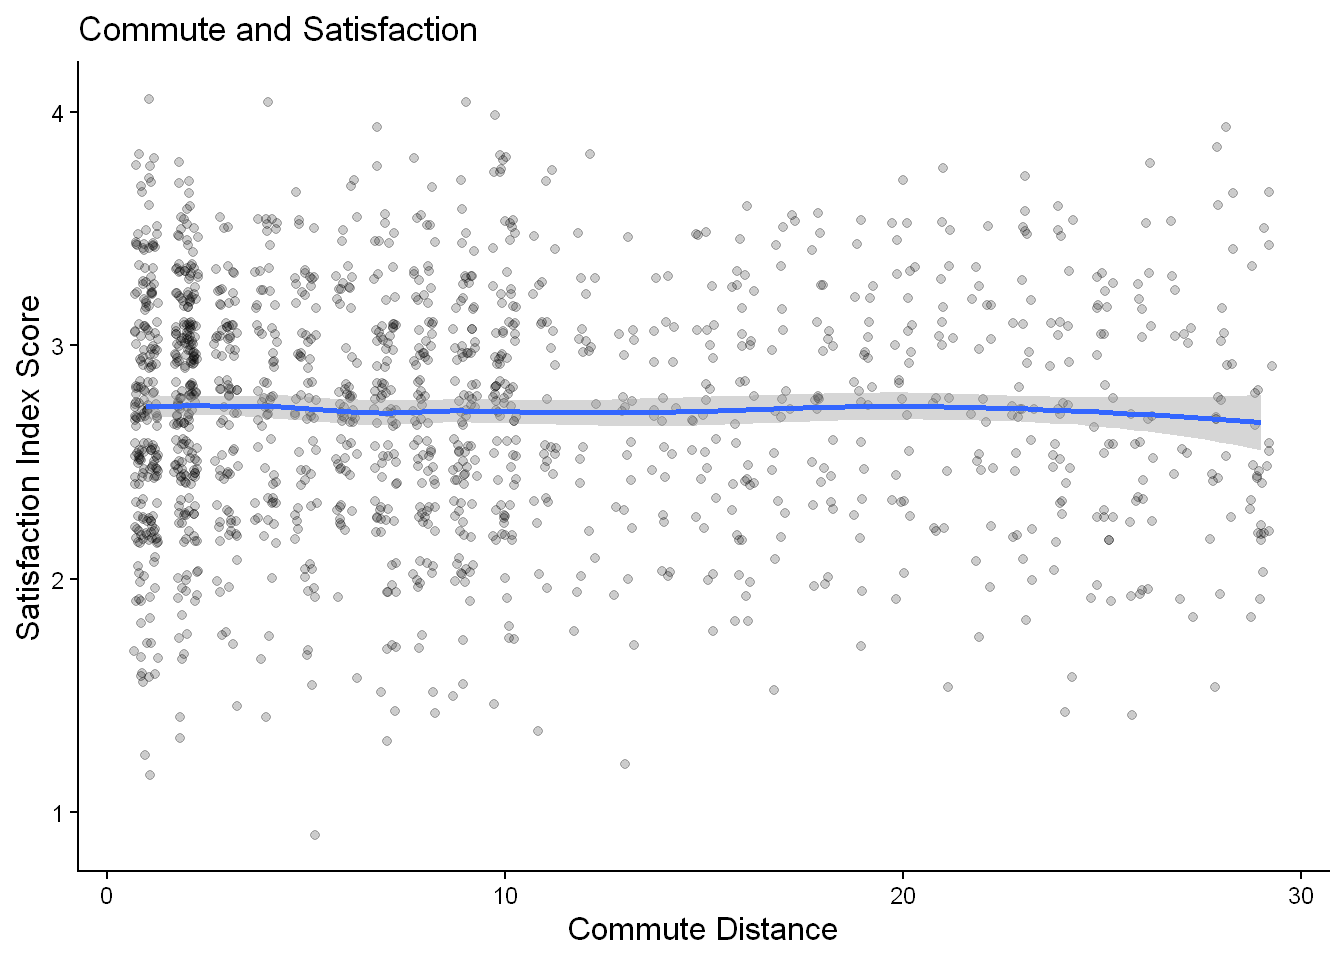
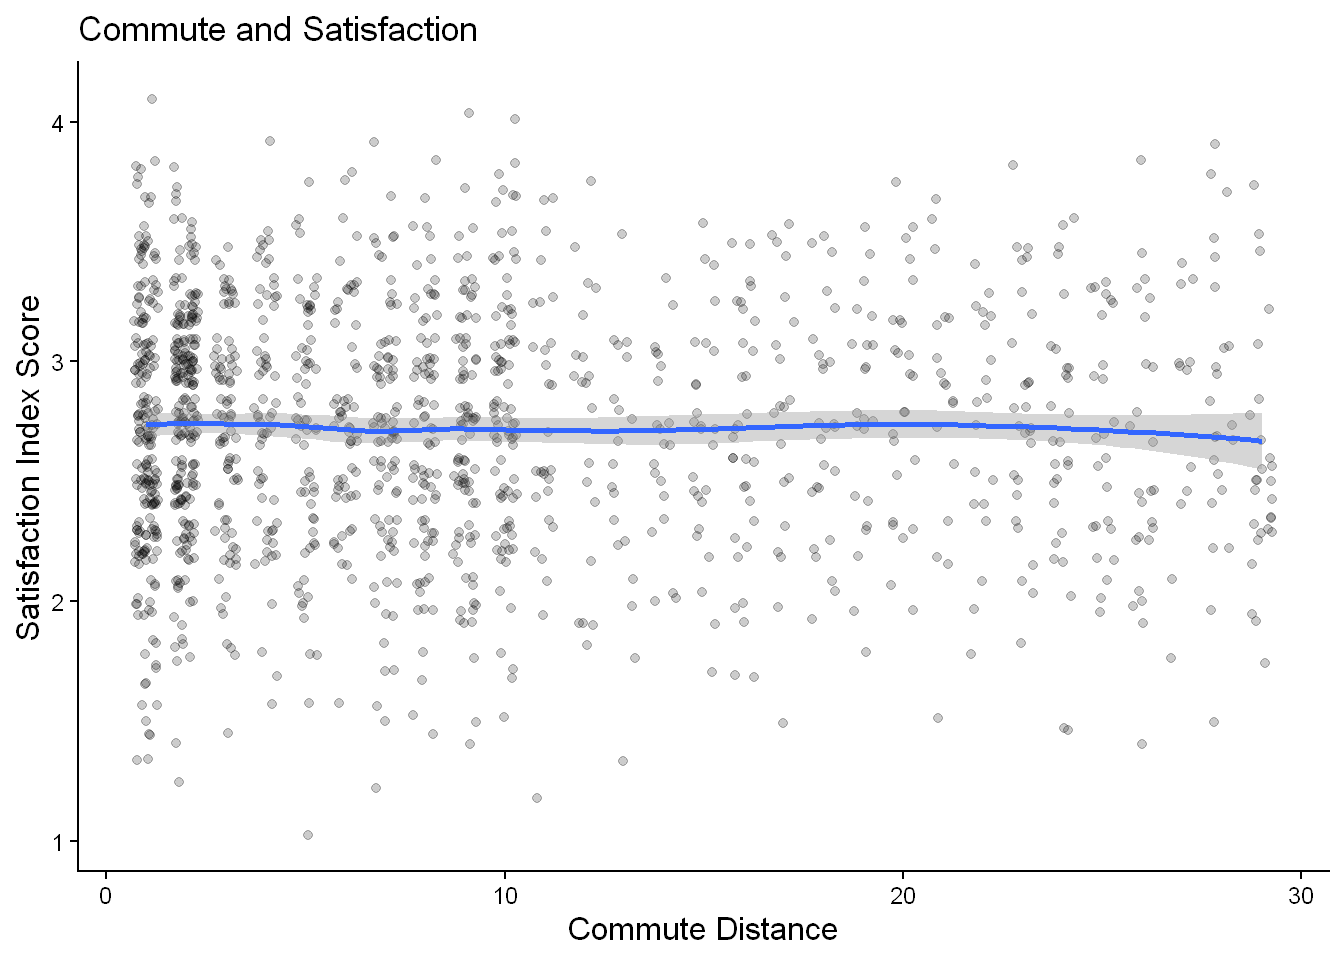
Added intro and fixed some typos

diff --git a/Employee Attrition Exploration & Analyses.html b/Employee Attrition Exploration & Analyses.html
@@ -88,7 +88,6 @@ pre > code.sourceCode > span > a:first-child::before { text-decoration: underlin
   <li><a href="#setup" id="toc-setup" class="nav-link active" data-scroll-target="#setup">Setup</a>
   <ul class="collapse">
   <li><a href="#importing-data" id="toc-importing-data" class="nav-link" data-scroll-target="#importing-data">Importing Data</a></li>
-  <li><a href="#initial-inspection" id="toc-initial-inspection" class="nav-link" data-scroll-target="#initial-inspection">Initial Inspection</a></li>
   </ul></li>
   <li><a href="#cleaning" id="toc-cleaning" class="nav-link" data-scroll-target="#cleaning">Cleaning</a></li>
   <li><a href="#analyses" id="toc-analyses" class="nav-link" data-scroll-target="#analyses">Analyses</a>
@@ -144,9 +143,6 @@ pre > code.sourceCode > span > a:first-child::before { text-decoration: underlin
 <span id="cb2-2"><a href="#cb2-2" aria-hidden="true" tabindex="-1"></a>hr_data <span class="ot">&lt;-</span> <span class="fu">read_csv</span>(<span class="st">"data/WA_Fn-UseC_-HR-Employee-Attrition.csv"</span>)</span></code></pre></div><button title="Copy to Clipboard" class="code-copy-button"><i class="bi"></i></button></div>
 </div>
 </section>
-<section id="initial-inspection" class="level3">
-<h3 class="anchored" data-anchor-id="initial-inspection">Initial Inspection</h3>
-</section>
 </section>
 <section id="cleaning" class="level1">
 <h1>Cleaning</h1>
@@ -154,7 +150,7 @@ pre > code.sourceCode > span > a:first-child::before { text-decoration: underlin
 <div class="code-copy-outer-scaffold"><div class="sourceCode cell-code" id="cb3"><pre class="sourceCode r code-with-copy"><code class="sourceCode r"><span id="cb3-1"><a href="#cb3-1" aria-hidden="true" tabindex="-1"></a><span class="co"># Standardized column names</span></span>
 <span id="cb3-2"><a href="#cb3-2" aria-hidden="true" tabindex="-1"></a>hr_data <span class="ot">&lt;-</span> janitor<span class="sc">::</span><span class="fu">clean_names</span>(hr_data) <span class="sc">%&gt;%</span> </span>
 <span id="cb3-3"><a href="#cb3-3" aria-hidden="true" tabindex="-1"></a></span>
-<span id="cb3-4"><a href="#cb3-4" aria-hidden="true" tabindex="-1"></a><span class="co"># Removed standardized columns and irrelevant variables to following analyses</span></span>
+<span id="cb3-4"><a href="#cb3-4" aria-hidden="true" tabindex="-1"></a><span class="co"># Removed irrelevant variables </span></span>
 <span id="cb3-5"><a href="#cb3-5" aria-hidden="true" tabindex="-1"></a>  <span class="fu">select</span>(<span class="sc">-</span><span class="fu">any_of</span>(<span class="fu">c</span>(<span class="st">"employee_count"</span>, <span class="st">"standard_hours"</span>, <span class="st">"over18"</span>)))</span>
 <span id="cb3-6"><a href="#cb3-6" aria-hidden="true" tabindex="-1"></a></span>
 <span id="cb3-7"><a href="#cb3-7" aria-hidden="true" tabindex="-1"></a><span class="co"># Created first data branch, for feature analysis</span></span>
@@ -194,14 +190,13 @@ pre > code.sourceCode > span > a:first-child::before { text-decoration: underlin
 <span id="cb3-41"><a href="#cb3-41" aria-hidden="true" tabindex="-1"></a>                 <span class="st">"Bachelor"</span>, <span class="st">"Master"</span>, <span class="st">"Doctor"</span>),</span>
 <span id="cb3-42"><a href="#cb3-42" aria-hidden="true" tabindex="-1"></a>      <span class="at">ordered =</span> <span class="cn">TRUE</span></span>
 <span id="cb3-43"><a href="#cb3-43" aria-hidden="true" tabindex="-1"></a>    ),</span>
-<span id="cb3-44"><a href="#cb3-44" aria-hidden="true" tabindex="-1"></a>    </span>
-<span id="cb3-45"><a href="#cb3-45" aria-hidden="true" tabindex="-1"></a>    <span class="co"># Nominal categorical variables</span></span>
-<span id="cb3-46"><a href="#cb3-46" aria-hidden="true" tabindex="-1"></a>    <span class="fu">across</span>(</span>
-<span id="cb3-47"><a href="#cb3-47" aria-hidden="true" tabindex="-1"></a>      <span class="fu">c</span>(attrition, business_travel, department, education_field,</span>
-<span id="cb3-48"><a href="#cb3-48" aria-hidden="true" tabindex="-1"></a>        gender, job_role, marital_status, over_time),</span>
-<span id="cb3-49"><a href="#cb3-49" aria-hidden="true" tabindex="-1"></a>      as.factor</span>
-<span id="cb3-50"><a href="#cb3-50" aria-hidden="true" tabindex="-1"></a>    )</span>
-<span id="cb3-51"><a href="#cb3-51" aria-hidden="true" tabindex="-1"></a>  )</span></code></pre></div><button title="Copy to Clipboard" class="code-copy-button"><i class="bi"></i></button></div>
+<span id="cb3-44"><a href="#cb3-44" aria-hidden="true" tabindex="-1"></a>    <span class="co"># Nominal categorical variables</span></span>
+<span id="cb3-45"><a href="#cb3-45" aria-hidden="true" tabindex="-1"></a>    <span class="fu">across</span>(</span>
+<span id="cb3-46"><a href="#cb3-46" aria-hidden="true" tabindex="-1"></a>      <span class="fu">c</span>(attrition, business_travel, department, education_field,</span>
+<span id="cb3-47"><a href="#cb3-47" aria-hidden="true" tabindex="-1"></a>        gender, job_role, marital_status, over_time),</span>
+<span id="cb3-48"><a href="#cb3-48" aria-hidden="true" tabindex="-1"></a>      as.factor</span>
+<span id="cb3-49"><a href="#cb3-49" aria-hidden="true" tabindex="-1"></a>    )</span>
+<span id="cb3-50"><a href="#cb3-50" aria-hidden="true" tabindex="-1"></a>  )</span></code></pre></div><button title="Copy to Clipboard" class="code-copy-button"><i class="bi"></i></button></div>
 </div>
 </section>
 <section id="analyses" class="level1">
@@ -250,6 +245,7 @@ pre > code.sourceCode > span > a:first-child::before { text-decoration: underlin
 </div>
 </div>
 </div>
+<p>The heatmap shows that attrition rates are lowest at the extreme highs of job involvement and satisfaction. In fact, the rate for employees with both very high job involvement and satisfaction is 2.38%. As shown in the graphic, as these engagement levels decrease, attrition rates tend to increase.</p>
 </section>
 <section id="commute-and-satisfaction" class="level2">
 <h2 class="anchored" data-anchor-id="commute-and-satisfaction">Commute and Satisfaction</h2>
@@ -258,7 +254,7 @@ pre > code.sourceCode > span > a:first-child::before { text-decoration: underlin
 <p>Created new feature, satisfaction_index… (Important to discuss because I use it later as well)</p>
 <p>*Note that commute distance does not have a unit because the data set is not specific</p>
 <div class="cell">
-<div class="code-copy-outer-scaffold"><div class="sourceCode cell-code" id="cb6"><pre class="sourceCode r code-with-copy"><code class="sourceCode r"><span id="cb6-1"><a href="#cb6-1" aria-hidden="true" tabindex="-1"></a><span class="co"># Engineered new feature, satisfaction_index that takes the average of the satisafction variables</span></span>
+<div class="code-copy-outer-scaffold"><div class="sourceCode cell-code" id="cb6"><pre class="sourceCode r code-with-copy"><code class="sourceCode r"><span id="cb6-1"><a href="#cb6-1" aria-hidden="true" tabindex="-1"></a><span class="co"># Engineered new feature, satisfaction_index that takes the average of the satisfaction variables</span></span>
 <span id="cb6-2"><a href="#cb6-2" aria-hidden="true" tabindex="-1"></a>hr_features <span class="ot">&lt;-</span> hr_features <span class="sc">%&gt;%</span> </span>
 <span id="cb6-3"><a href="#cb6-3" aria-hidden="true" tabindex="-1"></a>  <span class="fu">mutate</span>(</span>
 <span id="cb6-4"><a href="#cb6-4" aria-hidden="true" tabindex="-1"></a>    <span class="at">satisfaction_index =</span> (</span>
@@ -370,7 +366,7 @@ pre > code.sourceCode > span > a:first-child::before { text-decoration: underlin
 <section id="graph-of-breakdown-by-years-since-last-promotion" class="level4">
 <h4 class="anchored" data-anchor-id="graph-of-breakdown-by-years-since-last-promotion">Graph of Breakdown by Years Since Last Promotion</h4>
 <div class="cell">
-<div class="code-copy-outer-scaffold"><div class="sourceCode cell-code" id="cb10"><pre class="sourceCode r code-with-copy"><code class="sourceCode r"><span id="cb10-1"><a href="#cb10-1" aria-hidden="true" tabindex="-1"></a><span class="co"># Created graph to show the count of employees who attritted based on years since their last promotion</span></span>
+<div class="code-copy-outer-scaffold"><div class="sourceCode cell-code" id="cb10"><pre class="sourceCode r code-with-copy"><code class="sourceCode r"><span id="cb10-1"><a href="#cb10-1" aria-hidden="true" tabindex="-1"></a><span class="co"># Created graph showing employees who attritted based on years since their last promotion</span></span>
 <span id="cb10-2"><a href="#cb10-2" aria-hidden="true" tabindex="-1"></a>promo_graph_count <span class="ot">&lt;-</span> education_data <span class="sc">%&gt;%</span> </span>
 <span id="cb10-3"><a href="#cb10-3" aria-hidden="true" tabindex="-1"></a>  <span class="fu">mutate</span>(<span class="at">years_bucket =</span> <span class="fu">cut</span>(years_since_last_promotion,</span>
 <span id="cb10-4"><a href="#cb10-4" aria-hidden="true" tabindex="-1"></a>                            <span class="at">breaks =</span> <span class="fu">c</span>(<span class="dv">0</span>, <span class="dv">3</span>, <span class="dv">6</span>, <span class="dv">9</span>, <span class="dv">12</span>, <span class="dv">15</span>),</span>
@@ -390,7 +386,7 @@ pre > code.sourceCode > span > a:first-child::before { text-decoration: underlin
 <div class="cell-output-display">
 <div>
 <figure class="figure">
-<p><img src="Employee-Attrition-Exploration---Analyses_files/figure-html/Graphing-1.png" class="img-fluid figure-img" width="672"></p>
+<p><img src="Employee-Attrition-Exploration---Analyses_files/figure-html/Education%20x%20Promotion%20Graphing-1.png" class="img-fluid figure-img" width="672"></p>
 </figure>
 </div>
 </div>
@@ -536,7 +532,7 @@ pre > code.sourceCode > span > a:first-child::before { text-decoration: underlin
 <div class="cell-output-display">
 <div>
 <figure class="figure">
-<p><img src="Employee-Attrition-Exploration---Analyses_files/figure-html/unnamed-chunk-4-1.png" class="img-fluid figure-img" width="672"></p>
+<p><img src="Employee-Attrition-Exploration---Analyses_files/figure-html/Education%20proportion%20graph-1.png" class="img-fluid figure-img" width="672"></p>
 </figure>
 </div>
 </div>
@@ -741,19 +737,22 @@ pre > code.sourceCode > span > a:first-child::before { text-decoration: underlin
 <span id="cb16-5"><a href="#cb16-5" aria-hidden="true" tabindex="-1"></a>             <span class="at">labeller =</span> <span class="fu">labeller</span>(</span>
 <span id="cb16-6"><a href="#cb16-6" aria-hidden="true" tabindex="-1"></a>               <span class="at">over_time =</span> <span class="fu">c</span>(<span class="st">"No"</span> <span class="ot">=</span> <span class="st">"No Overtime"</span>, </span>
 <span id="cb16-7"><a href="#cb16-7" aria-hidden="true" tabindex="-1"></a>                             <span class="st">"Yes"</span> <span class="ot">=</span> <span class="st">"Overtime"</span>)</span>
-<span id="cb16-8"><a href="#cb16-8" aria-hidden="true" tabindex="-1"></a>             )</span>
-<span id="cb16-9"><a href="#cb16-9" aria-hidden="true" tabindex="-1"></a>  ) <span class="sc">+</span> </span>
-<span id="cb16-10"><a href="#cb16-10" aria-hidden="true" tabindex="-1"></a>  <span class="fu">labs</span>(<span class="at">title =</span> <span class="st">"Attrition Patterns Across Career Stages and Overtime"</span>,</span>
-<span id="cb16-11"><a href="#cb16-11" aria-hidden="true" tabindex="-1"></a>       <span class="at">x =</span> <span class="st">"Career Stage"</span>,</span>
-<span id="cb16-12"><a href="#cb16-12" aria-hidden="true" tabindex="-1"></a>       <span class="at">y =</span> <span class="st">"Proportion"</span>) <span class="sc">+</span></span>
-<span id="cb16-13"><a href="#cb16-13" aria-hidden="true" tabindex="-1"></a>  graph_theme <span class="sc">+</span></span>
-<span id="cb16-14"><a href="#cb16-14" aria-hidden="true" tabindex="-1"></a>  <span class="fu">scale_fill_manual</span>(<span class="at">values =</span> <span class="fu">c</span>(<span class="st">"No"</span> <span class="ot">=</span> <span class="st">"grey80"</span>, <span class="st">"Yes"</span> <span class="ot">=</span> <span class="st">"#D55E00"</span>))</span>
-<span id="cb16-15"><a href="#cb16-15" aria-hidden="true" tabindex="-1"></a></span>
-<span id="cb16-16"><a href="#cb16-16" aria-hidden="true" tabindex="-1"></a>overtime_graph</span></code></pre></div><button title="Copy to Clipboard" class="code-copy-button"><i class="bi"></i></button></div>
+<span id="cb16-8"><a href="#cb16-8" aria-hidden="true" tabindex="-1"></a>               )</span>
+<span id="cb16-9"><a href="#cb16-9" aria-hidden="true" tabindex="-1"></a>             ) <span class="sc">+</span> </span>
+<span id="cb16-10"><a href="#cb16-10" aria-hidden="true" tabindex="-1"></a>  <span class="fu">labs</span>(</span>
+<span id="cb16-11"><a href="#cb16-11" aria-hidden="true" tabindex="-1"></a>    <span class="at">title =</span> <span class="st">"Attrition Patterns Across Career Stages and Overtime"</span>,</span>
+<span id="cb16-12"><a href="#cb16-12" aria-hidden="true" tabindex="-1"></a>    <span class="at">x =</span> <span class="st">"Career Stage"</span>,</span>
+<span id="cb16-13"><a href="#cb16-13" aria-hidden="true" tabindex="-1"></a>    <span class="at">y =</span> <span class="st">"Proportion"</span>,</span>
+<span id="cb16-14"><a href="#cb16-14" aria-hidden="true" tabindex="-1"></a>    <span class="at">fill =</span> <span class="st">"Attrition"</span></span>
+<span id="cb16-15"><a href="#cb16-15" aria-hidden="true" tabindex="-1"></a>    ) <span class="sc">+</span></span>
+<span id="cb16-16"><a href="#cb16-16" aria-hidden="true" tabindex="-1"></a>  graph_theme <span class="sc">+</span></span>
+<span id="cb16-17"><a href="#cb16-17" aria-hidden="true" tabindex="-1"></a>  <span class="fu">scale_fill_manual</span>(<span class="at">values =</span> <span class="fu">c</span>(<span class="st">"No"</span> <span class="ot">=</span> <span class="st">"grey80"</span>, <span class="st">"Yes"</span> <span class="ot">=</span> <span class="st">"#D55E00"</span>))</span>
+<span id="cb16-18"><a href="#cb16-18" aria-hidden="true" tabindex="-1"></a></span>
+<span id="cb16-19"><a href="#cb16-19" aria-hidden="true" tabindex="-1"></a>overtime_graph</span></code></pre></div><button title="Copy to Clipboard" class="code-copy-button"><i class="bi"></i></button></div>
 <div class="cell-output-display">
 <div>
 <figure class="figure">
-<p><img src="Employee-Attrition-Exploration---Analyses_files/figure-html/Analyses-1.png" class="img-fluid figure-img" width="672"></p>
+<p><img src="Employee-Attrition-Exploration---Analyses_files/figure-html/OT%20Analyses-1.png" class="img-fluid figure-img" width="672"></p>
 </figure>
 </div>
 </div>
@@ -768,21 +767,22 @@ pre > code.sourceCode > span > a:first-child::before { text-decoration: underlin
 <span id="cb17-9"><a href="#cb17-9" aria-hidden="true" tabindex="-1"></a>             <span class="at">labeller =</span> <span class="fu">labeller</span>(</span>
 <span id="cb17-10"><a href="#cb17-10" aria-hidden="true" tabindex="-1"></a>               <span class="at">over_time =</span> <span class="fu">c</span>(<span class="st">"No"</span> <span class="ot">=</span> <span class="st">"No Overtime"</span>, </span>
 <span id="cb17-11"><a href="#cb17-11" aria-hidden="true" tabindex="-1"></a>                             <span class="st">"Yes"</span> <span class="ot">=</span> <span class="st">"Overtime"</span>)</span>
-<span id="cb17-12"><a href="#cb17-12" aria-hidden="true" tabindex="-1"></a>             )</span>
-<span id="cb17-13"><a href="#cb17-13" aria-hidden="true" tabindex="-1"></a>  ) <span class="sc">+</span></span>
+<span id="cb17-12"><a href="#cb17-12" aria-hidden="true" tabindex="-1"></a>               )</span>
+<span id="cb17-13"><a href="#cb17-13" aria-hidden="true" tabindex="-1"></a>             ) <span class="sc">+</span></span>
 <span id="cb17-14"><a href="#cb17-14" aria-hidden="true" tabindex="-1"></a>  <span class="fu">labs</span>(</span>
 <span id="cb17-15"><a href="#cb17-15" aria-hidden="true" tabindex="-1"></a>    <span class="at">title =</span> <span class="st">"Early Career Attrition: Effects of Satisfaction and Overtime"</span>,</span>
 <span id="cb17-16"><a href="#cb17-16" aria-hidden="true" tabindex="-1"></a>    <span class="at">x =</span> <span class="st">"Satisfaction"</span>,</span>
-<span id="cb17-17"><a href="#cb17-17" aria-hidden="true" tabindex="-1"></a>    <span class="at">y =</span> <span class="st">"Proportion"</span></span>
-<span id="cb17-18"><a href="#cb17-18" aria-hidden="true" tabindex="-1"></a>  ) <span class="sc">+</span></span>
-<span id="cb17-19"><a href="#cb17-19" aria-hidden="true" tabindex="-1"></a>  graph_theme <span class="sc">+</span></span>
-<span id="cb17-20"><a href="#cb17-20" aria-hidden="true" tabindex="-1"></a>  <span class="fu">scale_fill_manual</span>(<span class="at">values =</span> <span class="fu">c</span>(<span class="st">"No"</span> <span class="ot">=</span> <span class="st">"grey80"</span>, <span class="st">"Yes"</span> <span class="ot">=</span> <span class="st">"#D55E00"</span>))</span>
-<span id="cb17-21"><a href="#cb17-21" aria-hidden="true" tabindex="-1"></a></span>
-<span id="cb17-22"><a href="#cb17-22" aria-hidden="true" tabindex="-1"></a>early_overtime_graph</span></code></pre></div><button title="Copy to Clipboard" class="code-copy-button"><i class="bi"></i></button></div>
+<span id="cb17-17"><a href="#cb17-17" aria-hidden="true" tabindex="-1"></a>    <span class="at">y =</span> <span class="st">"Proportion"</span>,</span>
+<span id="cb17-18"><a href="#cb17-18" aria-hidden="true" tabindex="-1"></a>    <span class="at">fill =</span> <span class="st">"Attrition"</span></span>
+<span id="cb17-19"><a href="#cb17-19" aria-hidden="true" tabindex="-1"></a>    ) <span class="sc">+</span></span>
+<span id="cb17-20"><a href="#cb17-20" aria-hidden="true" tabindex="-1"></a>  graph_theme <span class="sc">+</span></span>
+<span id="cb17-21"><a href="#cb17-21" aria-hidden="true" tabindex="-1"></a>  <span class="fu">scale_fill_manual</span>(<span class="at">values =</span> <span class="fu">c</span>(<span class="st">"No"</span> <span class="ot">=</span> <span class="st">"grey80"</span>, <span class="st">"Yes"</span> <span class="ot">=</span> <span class="st">"#D55E00"</span>))</span>
+<span id="cb17-22"><a href="#cb17-22" aria-hidden="true" tabindex="-1"></a></span>
+<span id="cb17-23"><a href="#cb17-23" aria-hidden="true" tabindex="-1"></a>early_overtime_graph</span></code></pre></div><button title="Copy to Clipboard" class="code-copy-button"><i class="bi"></i></button></div>
 <div class="cell-output-display">
 <div>
 <figure class="figure">
-<p><img src="Employee-Attrition-Exploration---Analyses_files/figure-html/Analyses-2.png" class="img-fluid figure-img" width="672"></p>
+<p><img src="Employee-Attrition-Exploration---Analyses_files/figure-html/OT%20Analyses-2.png" class="img-fluid figure-img" width="672"></p>
 </figure>
 </div>
 </div>